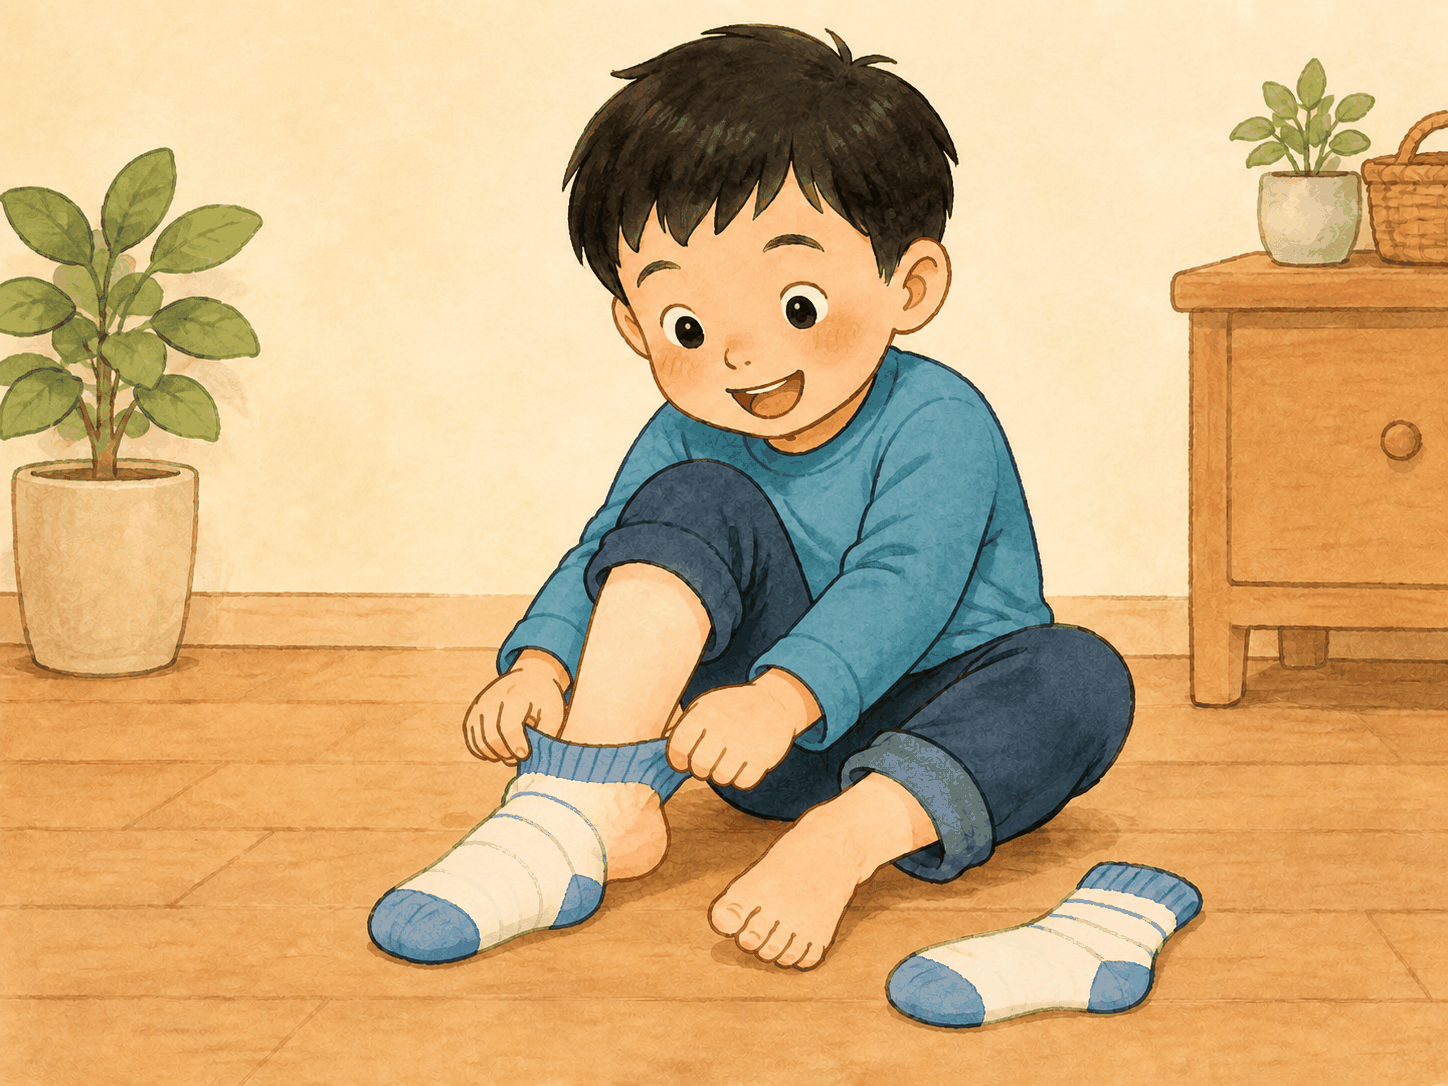
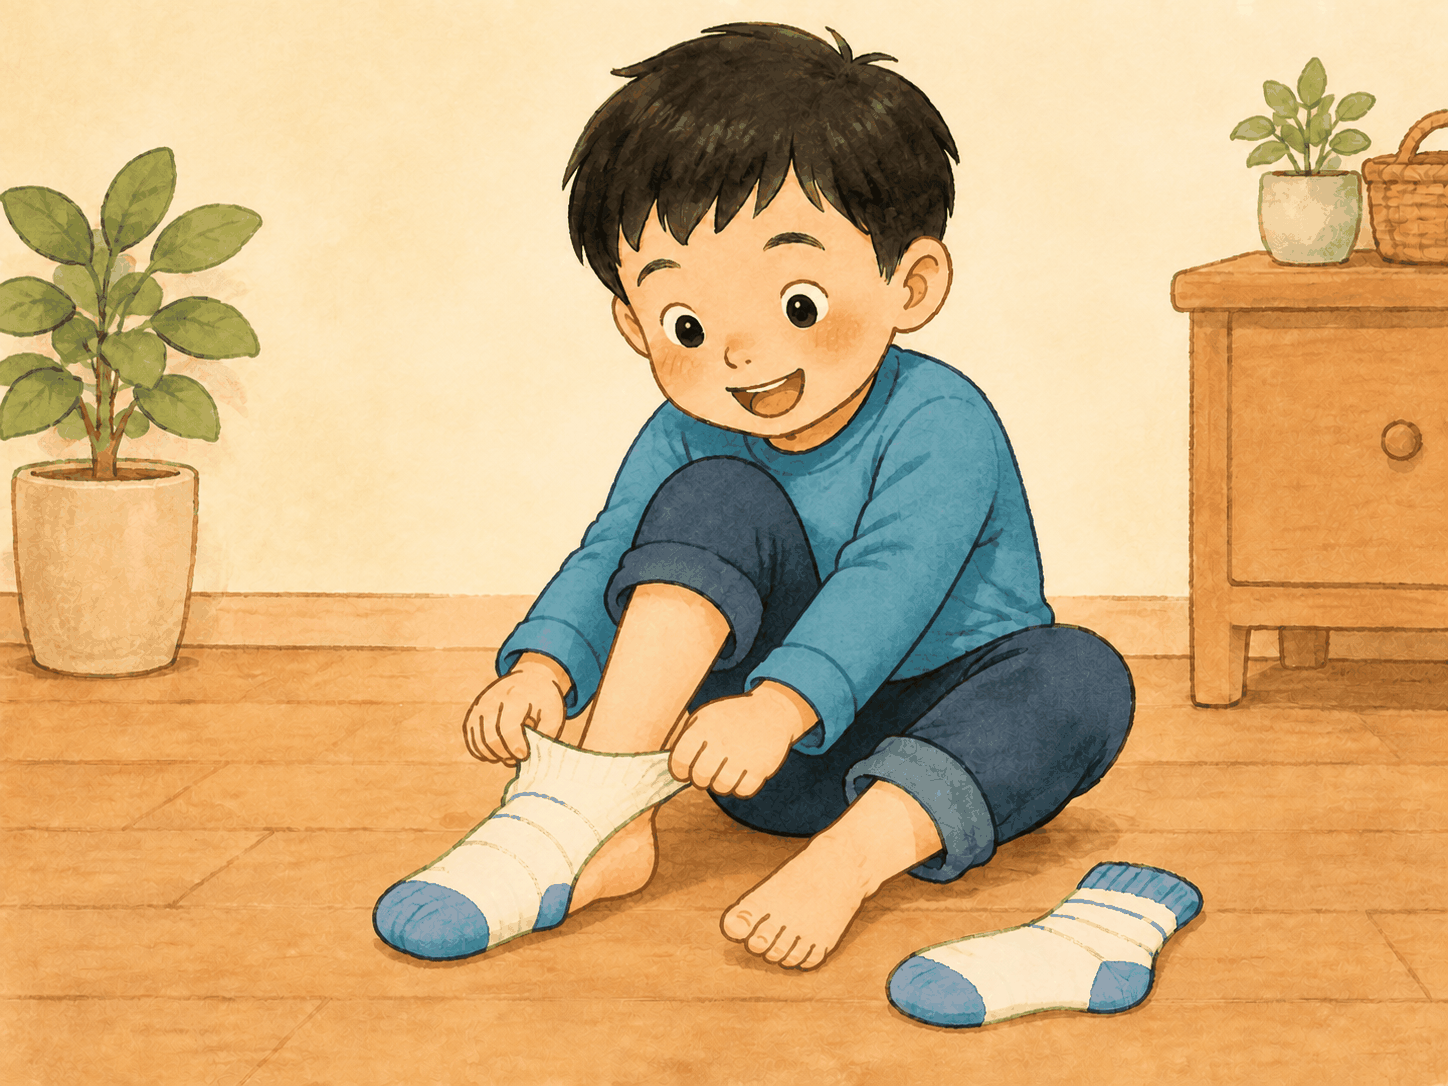
Fix sock action image and submit label

diff --git a/lesson/act1-play.html b/lesson/act1-play.html
@@ -81,7 +81,7 @@ main{min-height:100dvh;padding:max(18px,env(safe-area-inset-top)) max(18px,env(s
     <figure class="art"><img id="sceneImage" src="img/01-yangmal.png" alt="내가 문장 조각을 쓸 그림"></figure>
     <div>
       <div id="inputs" class="inputs"></div>
-      <button id="submitBtn" class="submit">내기</button>
+      <button id="submitBtn" class="submit">제출하기</button>
       <div id="sentState" class="sent-state" aria-live="polite"></div>
     </div>
   </section>
